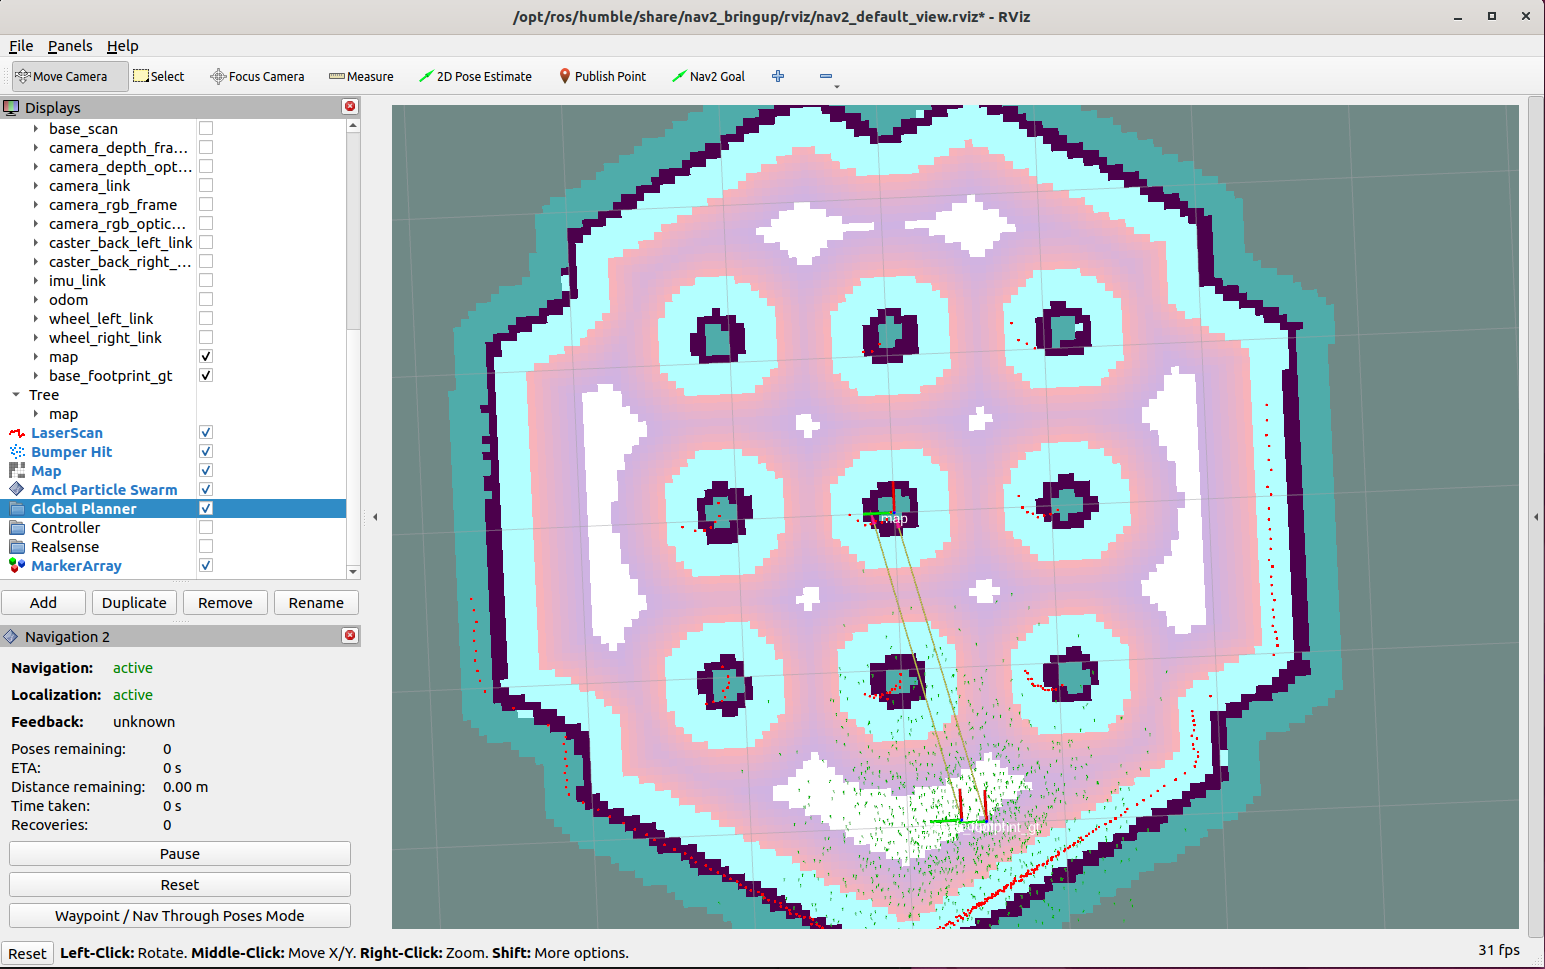
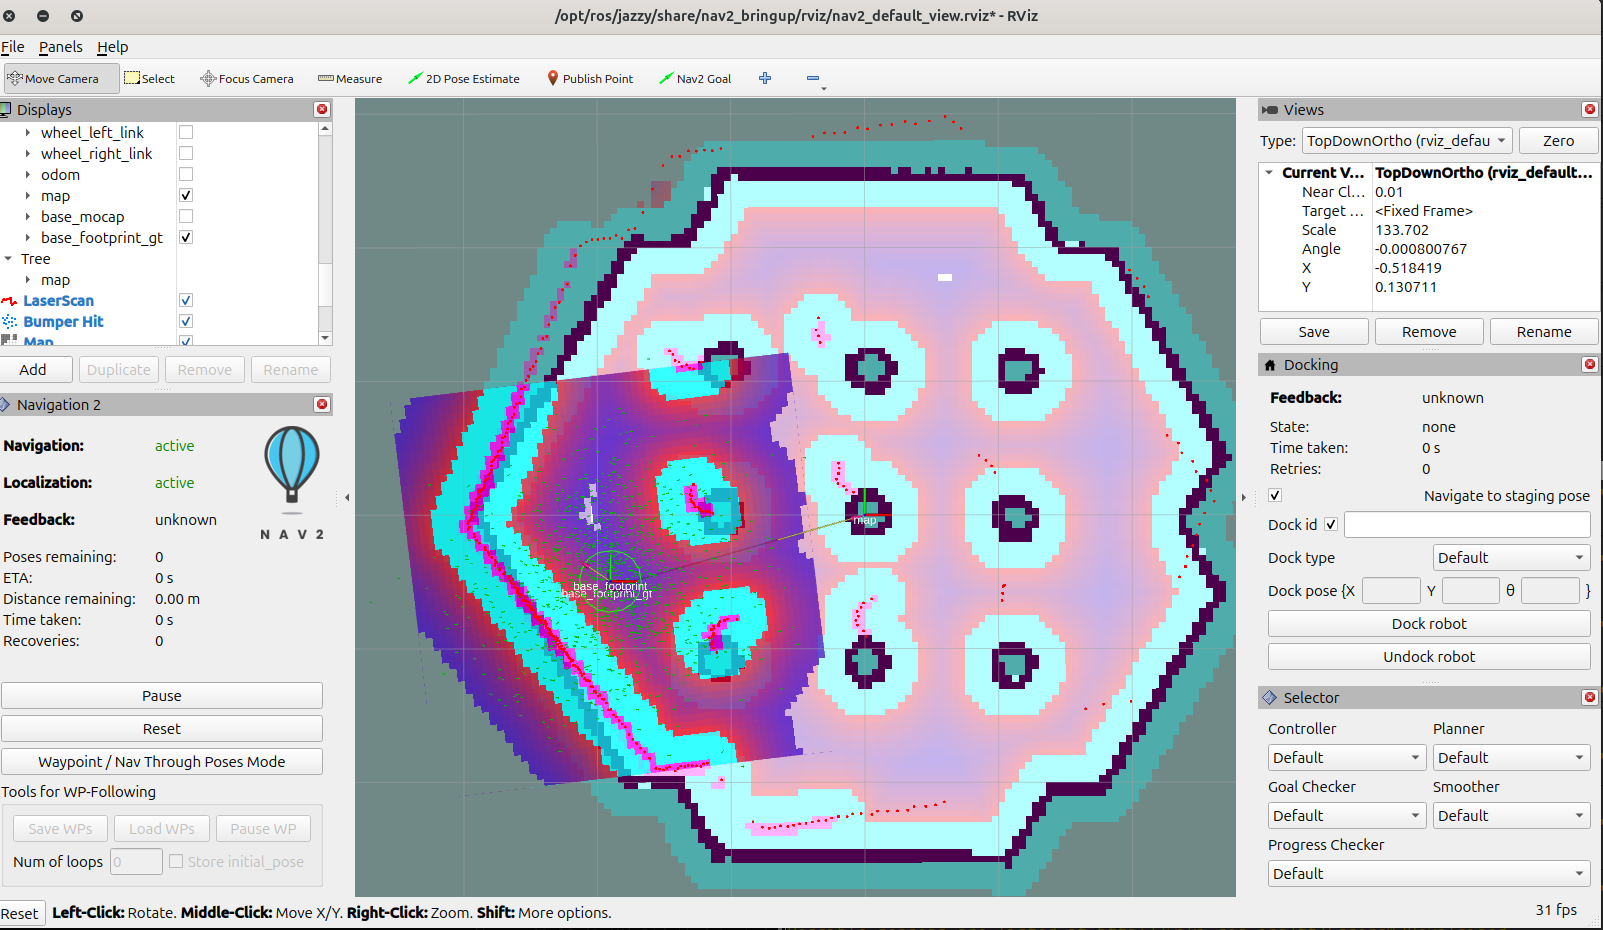
build instructions, getting started and images modified

diff --git a/build_instructions/index.rst b/build_instructions/index.rst
@@ -20,16 +20,16 @@ To test the OptiTrack system, follow these steps:
     The OptiTrack drivers for ROS2 are based on the NatNet SDK 3.1.0. When building the `mocap4ros2_optitrack` package, the SDK is automatically downloaded and installed.
 
     Additionally, this package depends on two repositories from the MOCAP4ROS2 project:
-    - [mocap_interfaces](https://github.com/MOCAP4ROS2-Project/mocap_interfaces)
+    - [mocap4r2_msgs](https://github.com/MOCAP4ROS2-Project/mocap4r2_msgs)
     - [mocap4r2_control](https://github.com/MOCAP4ROS2-Project/mocap4r2)
 
 1. Clone the required repositories into your ``src`` folder inside your workspace (e.g., ``mocap4r2_ws``):
 
 .. code-block:: console
 
-    git clone -b rep-mocap https://github.com/MOCAP4ROS2-Project/mocap4ros2_optitrack.git
+    git clone https://github.com/MOCAP4ROS2-Project/mocap4ros2_optitrack.git
 
-1. Manage ROS2 dependencies:
+2. Manage ROS2 dependencies:
 
 .. code-block:: console
 
@@ -98,19 +98,18 @@ To test the Vicon system, follow these steps:
     cp mocap4ros2_vicon/mocap4ros2.rosinstall .rosinstall
     wstool update
 
-3. Manage ROS2 dependencies:
+3. Manage ROS2 dependencies in your mocap4r2_ws:
 
 .. code-block:: console
 
-    mocap4r2_ws$ sudo rosdep init  # May not be needed if already done
+    sudo rosdep init  # May not be needed if already done
     rosdep update
     rosdep install --from-paths src --ignore-src -r -y
 
-4. Build the workspace:
+4. Build the workspace (be sure to be in the root of your workspace):
 
 .. code-block:: console
 
-    cd ~/mocap4r2_ws/
     colcon build --symlink-install --packages-up-to mocap4r2_vicon_driver
 
 

diff --git a/tutorials/index.rst b/tutorials/index.rst
@@ -32,20 +32,20 @@ Optitrack system
 
 .. code-block:: console
 
-    mocap4r2_ws$ source install/setup.bash
-    mocap4r2_ws$ ros2 launch mocap4r2_optitrack_driver optitrack2.launch.py
+    source install/setup.bash
+    ros2 launch mocap4r2_optitrack_driver optitrack2.launch.py
 
 5. Activate the mocap optitrack driver node
 
 .. code-block:: console
 
-    mocap4r2_ws$ ros2 lifecycle set /mocap_optitrack_driver_node activate
+    ros2 lifecycle set /mocap_optitrack_driver_node activate
 
 6. Create markers in Rviz
 
 .. code-block:: console
 
-    mocap4r2_ws$ ros2 launch mocap4r2_marker_viz mocap4r2_marker_viz.launch.py
+    ros2 launch mocap4r2_marker_viz mocap4r2_marker_viz.launch.py
 
 7. Visualize the markers in Rviz
 

diff --git a/getting_started/index.rst b/getting_started/index.rst
@@ -122,9 +122,16 @@ To run the ground truth program, use the following command:
 
 .. code-block:: console
 
-    ros2 run mocap4r2_robot_gt gt_program
+    ros2 run mocap_robot_gt gt_program --ros-args -p root_frame:=map
 
 Check in Rviz how a new frame, `base_footprint_gt` exists and it is the real robot position. Move the robot and see how this TF track the robot position.
 
+.. |image5| image:: images/getting_started_7.png
+   :width: 500px
+   :align: middle
+
++----------+
+| |image5| +
++----------+
 
 Press the button "Stop" in MocapControl to stop the gazebo mocap.
